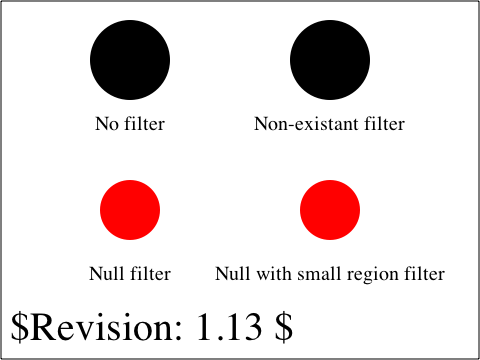
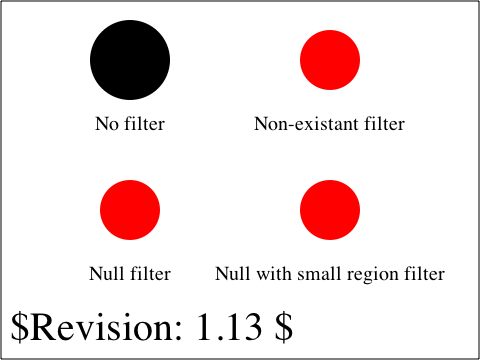
2011-05-25  Rob Buis  <rbuis@rim.com>
Reviewed by Eric Seidel.

        WebKit does not handle missing filter elements correctly
        https://bugs.webkit.org/show_bug.cgi?id=12569

        Updated improved pixel test result and add new SVG1.1 SE test and results.

        * platform/mac/svg/W3C-SVG-1.1-SE/filters-felem-01-b-expected.png: Added.
        * platform/mac/svg/W3C-SVG-1.1-SE/filters-felem-01-b-expected.txt: Added.
        * platform/mac/svg/W3C-SVG-1.1/filters-felem-01-b-expected.png:
        * svg/W3C-SVG-1.1-SE/filters-felem-01-b.svg: Added.
2011-05-25  Rob Buis  <rbuis@rim.com>

        Reviewed by Eric Seidel.
        New test rubber-stamped by Dirk Schulze.

        WebKit does not handle missing filter elements correctly
        https://bugs.webkit.org/show_bug.cgi?id=12569

        Do not render elements that reference non-existant filters.

        Test: svg/W3C-SVG-1.1-SE/filters-felem-01-b.svg

        * rendering/svg/SVGRenderSupport.cpp:
        (WebCore::SVGRenderSupport::prepareToRenderSVGContent):

git-svn-id: https://svn.webkit.org/repository/webkit/trunk@87310 268f45cc-cd09-0410-ab3c-d52691b4dbfc

Changed region(s): [[0.5938, 0.0306, 0.7812, 0.275]]

diff --git a/Source/WebCore/rendering/svg/SVGRenderSupport.cpp b/Source/WebCore/rendering/svg/SVGRenderSupport.cpp
@@ -106,8 +106,13 @@ bool SVGRenderSupport::prepareToRenderSVGContent(RenderObject* object, PaintInfo
     }
 
     SVGResources* resources = SVGResourcesCache::cachedResourcesForRenderObject(object);
-    if (!resources)
+    if (!resources) {
+#if ENABLE(FILTERS)
+        if (svgStyle->hasFilter())
+            return false;
+#endif
         return true;
+    }
 
     if (RenderSVGResourceMasker* masker = resources->masker()) {
         if (!masker->applyResource(object, style, paintInfo.context, ApplyToDefaultMode))
